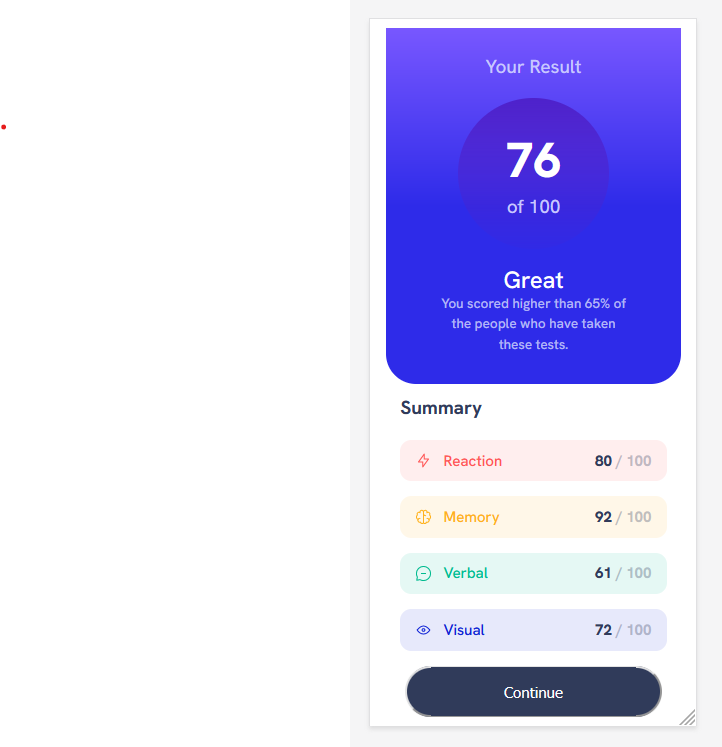
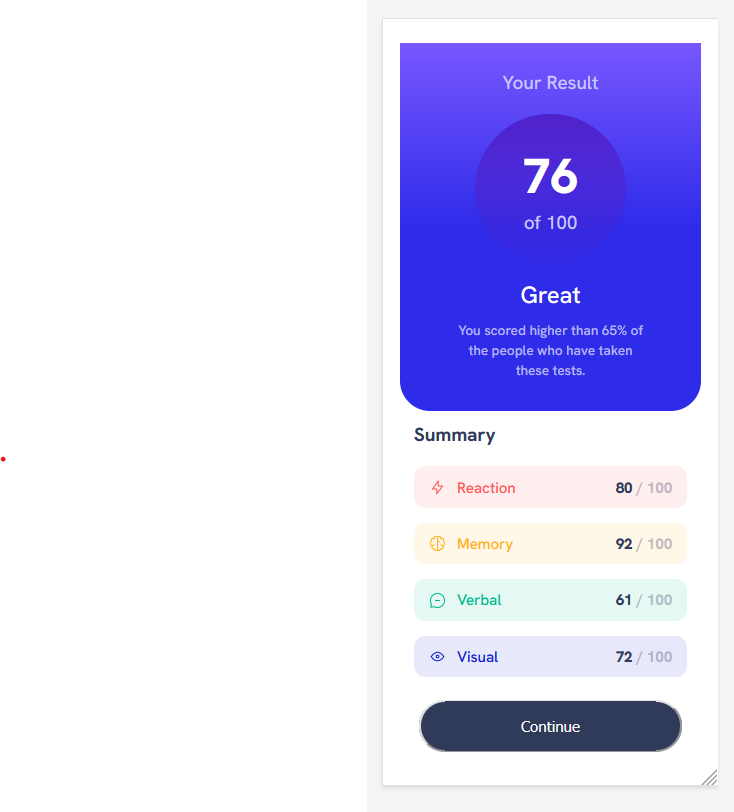
Change margins and update screenshots

diff --git a/css/styles.css b/css/styles.css
@@ -169,12 +169,13 @@ Card
 .score-footer h4 {
     color: var(--white);
     font-weight: 500;
+  
 }
 
 .score-footer p {
     padding: 3.5rem;
     padding-bottom: 1rem;
-    margin-top: -5rem;
+    margin-top: -4.25rem;
     font-size: 0.9rem;
     color: var(--paleblue-7);
     line-height: 1.5;
@@ -259,7 +260,7 @@ Card
     color: var(--white);
     border-radius: var(--borderRadius-large);
     font-size: 1rem;
-    margin: 0.75rem 0.5rem 0.5rem 0.5rem;
+    margin: 0.5rem 0.5rem 0.65rem 0.5rem;
     transition: var(--transition);
 }
 
